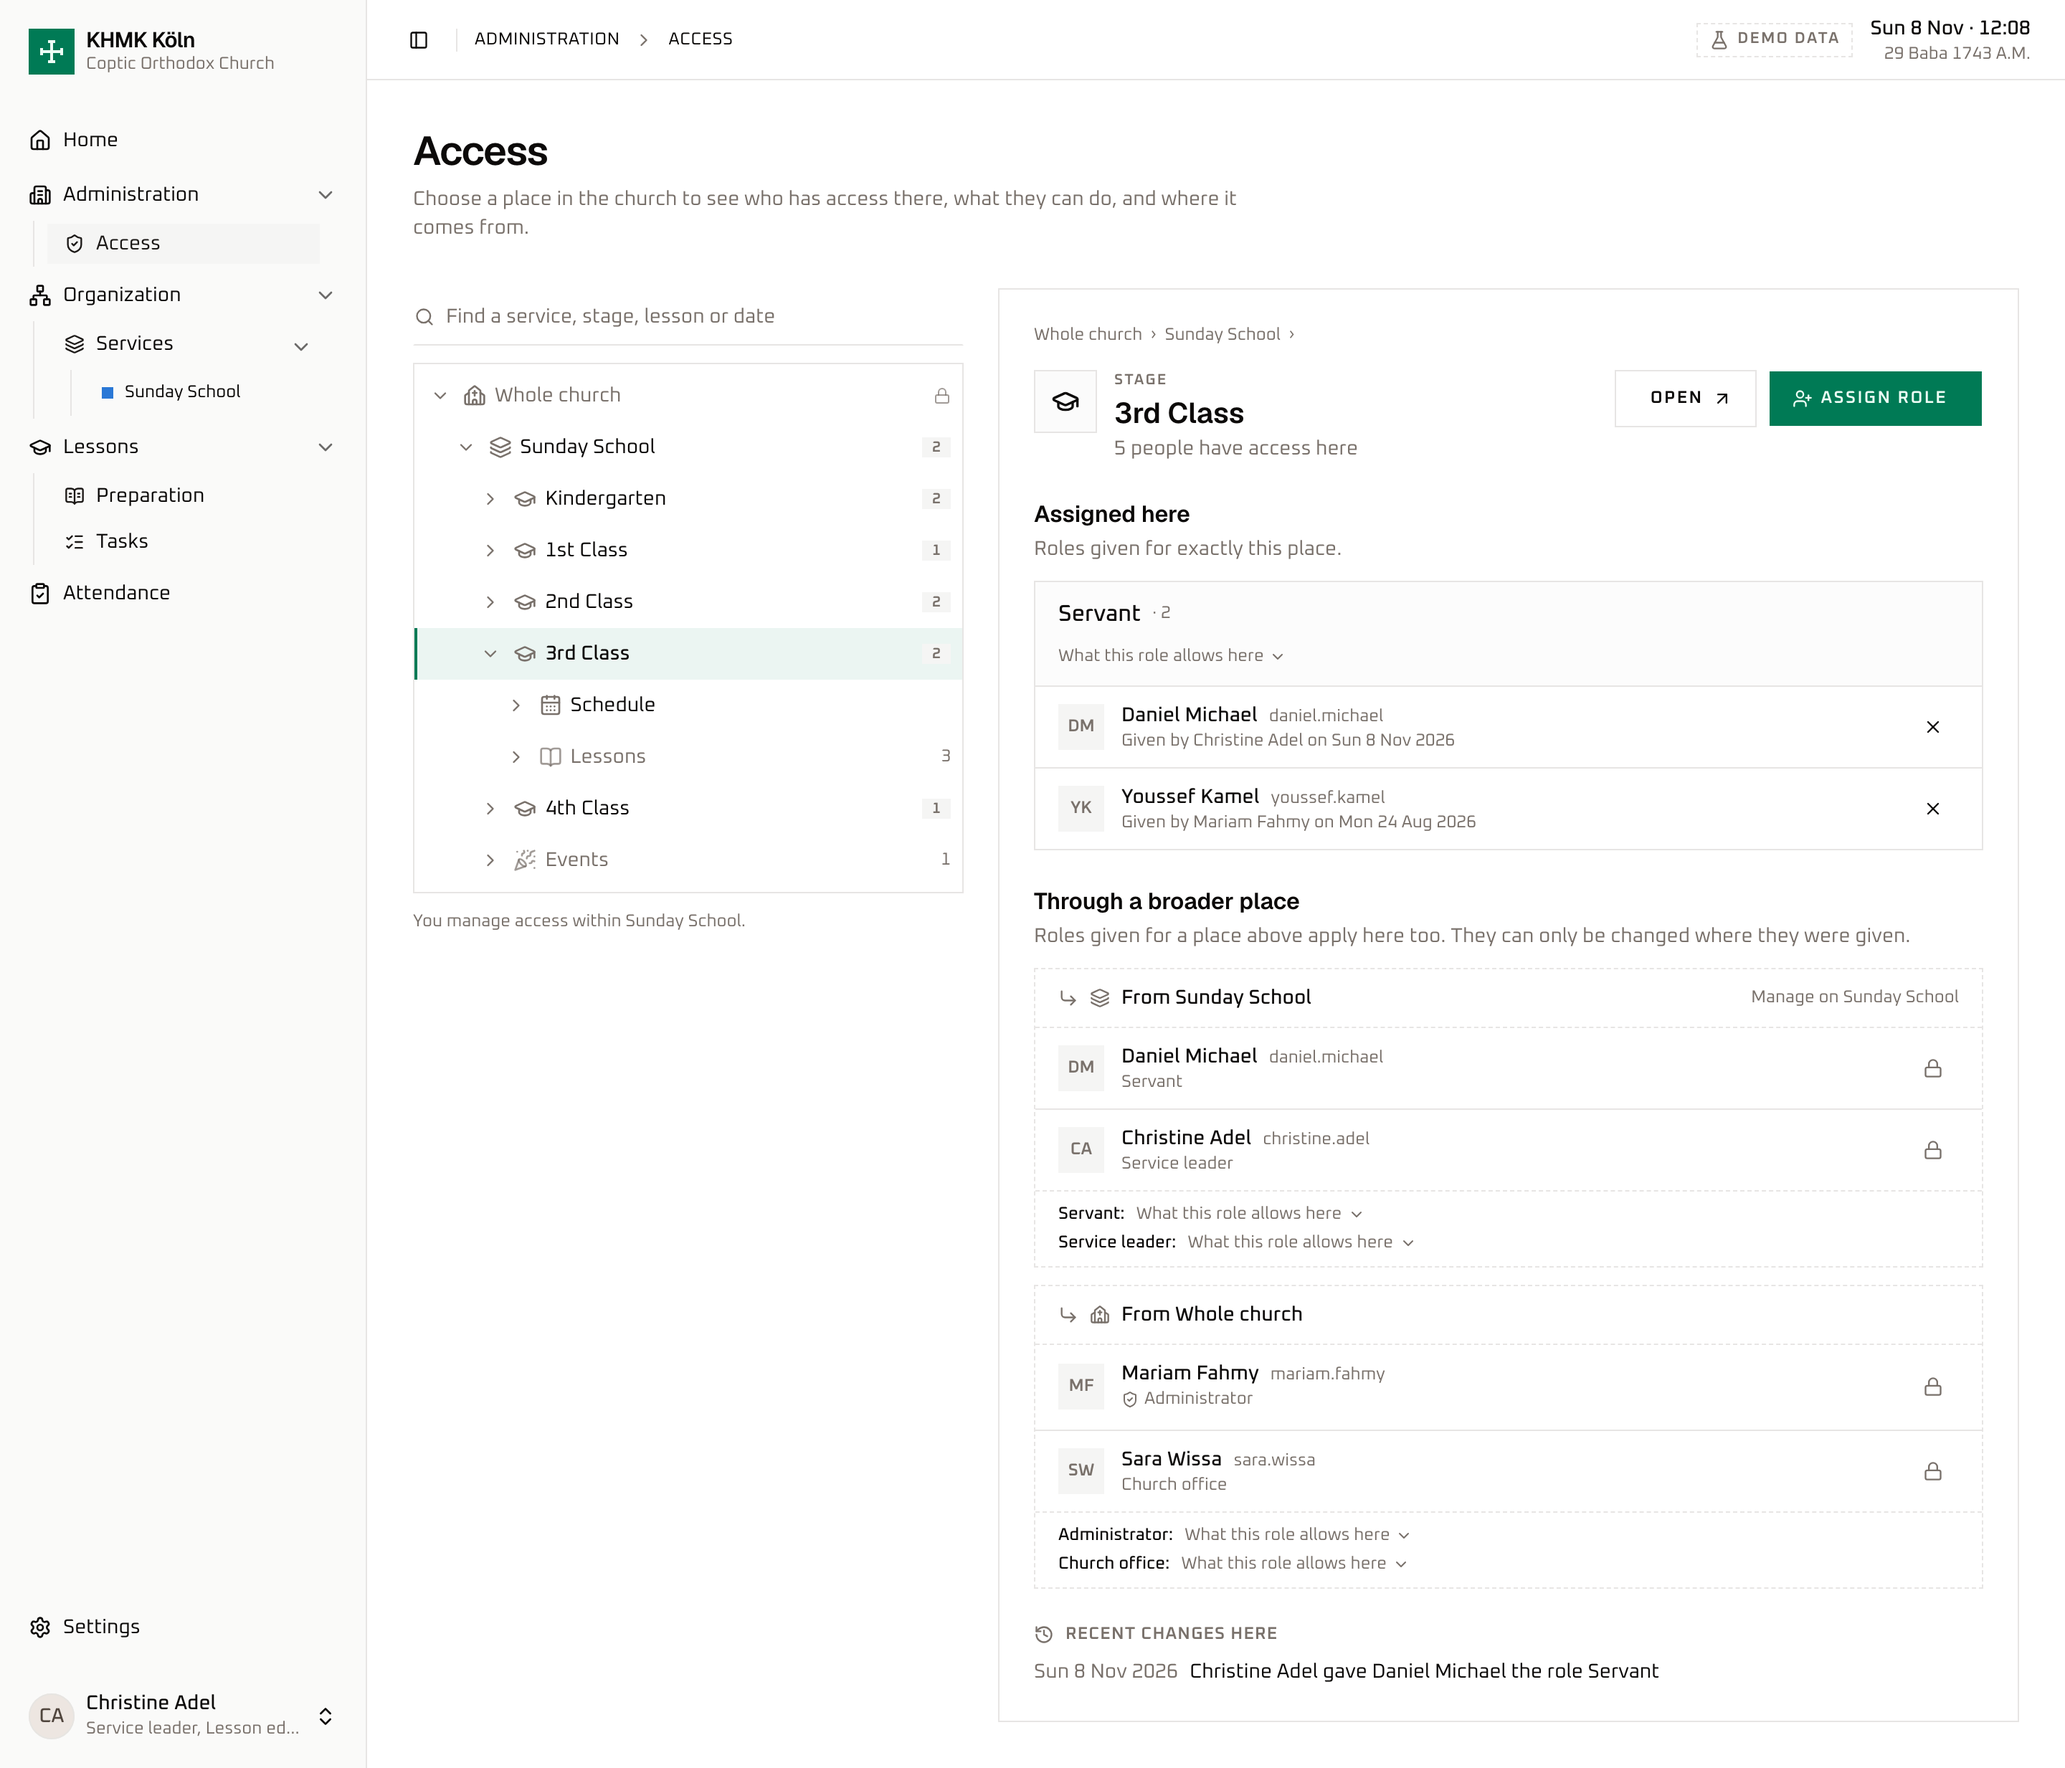
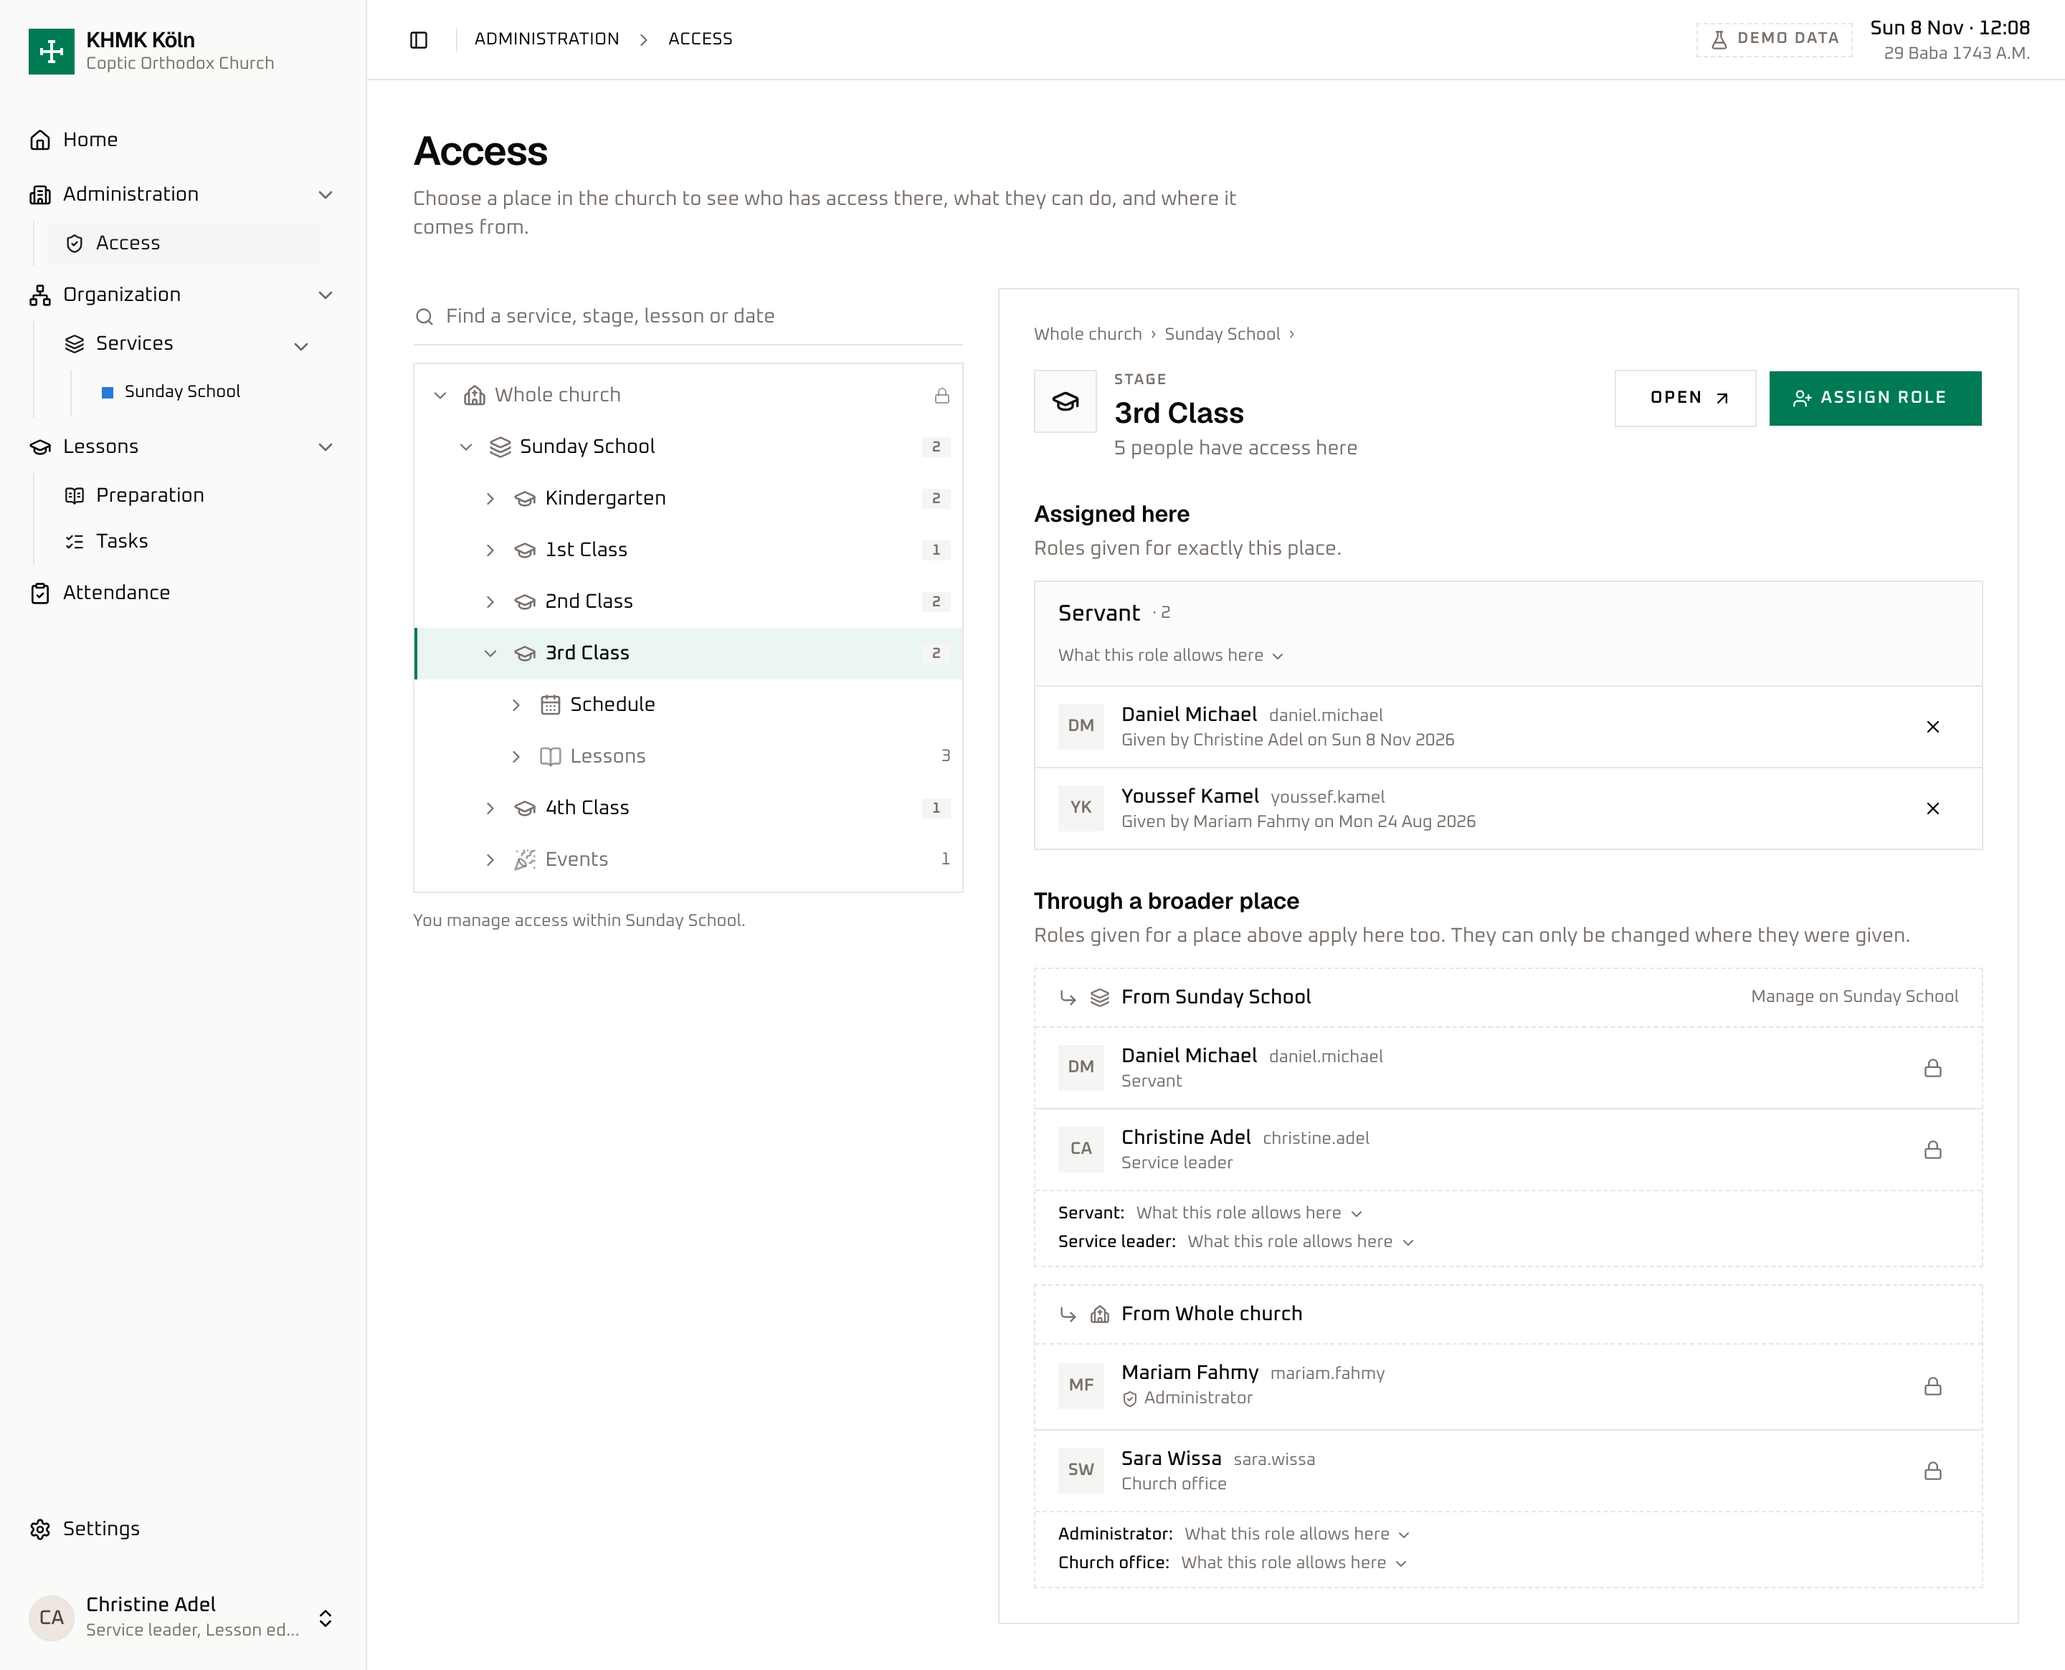
docs: regenerate the access mockups without the activity log

diff --git a/docs/authorization.md b/docs/authorization.md
@@ -28,8 +28,10 @@ Permission      "<type>.<action>"   lesson.update, lesson.publish, session.takeA
 Role            id, name, description, inherits[], permissions[] (own), assignableAt[] (scope types),
                 delegation[] ({ role, at: scope types }), protected
 Assignment      id, account, role, resource, origin (granted | owner), created at/by
-Access event    granted | revoked, actor, account, role, resource, at   (audit trail)
 ```
+
+The app keeps no activity log (decision of 13 November 2026, backend #442): an assignment records when and by whom it
+was given, nothing records removals.
 
 ## Resource hierarchy
 
@@ -157,7 +159,7 @@ system.
 
 | Tab | Who | What |
 | --- | --- | --- |
-| Resource management | holders of `access.assign` or `access.revoke` | A searchable tree of the church: services, stages, schedules; lessons, sessions, tasks and events grouped and paged. Only places where the viewer manages access, and the places leading there, are listed. The selected place shows its path, who has a role given exactly there (grouped by role, large groups counted until opened), who reaches it from above (grouped by where it was given, changeable only there), what each role allows there, and recent changes. "Assign role": person (existing accounts), role (only those the viewer may give, with why others can't), where (this place or a broader one the viewer controls), review (new permissions, those already held, overlaps), confirm. Removing shows what the person loses and what stays. |
+| Resource management | holders of `access.assign` or `access.revoke` | A searchable tree of the church: services, stages, schedules; lessons, sessions, tasks and events grouped and paged. Only places where the viewer manages access, and the places leading there, are listed. The selected place shows its path, who has a role given exactly there (grouped by role, large groups counted until opened), who reaches it from above (grouped by where it was given, changeable only there), and what each role allows there. "Assign role": person (existing accounts), role (only those the viewer may give, with why others can't), where (this place or a broader one the viewer controls), review (new permissions, those already held, overlaps), confirm. Removing shows what the person loses and what stays. |
 | Roles & permissions | `role.read` (`role.create`/`update`/`delete` to change) | Roles grouped by where they are given, each with what it builds on. A role: its inheritance tree, where it can be given, permissions by resource type (own, or "from Servant"), whom it may give and where, who has it. The editor computes inheritance, loops, valid places and effects on other roles and delegators while editing. |
 | Parental access | `guardianship.read` (`create`/`delete` to change) | Parents and the children they follow; link and unlink. |
 
